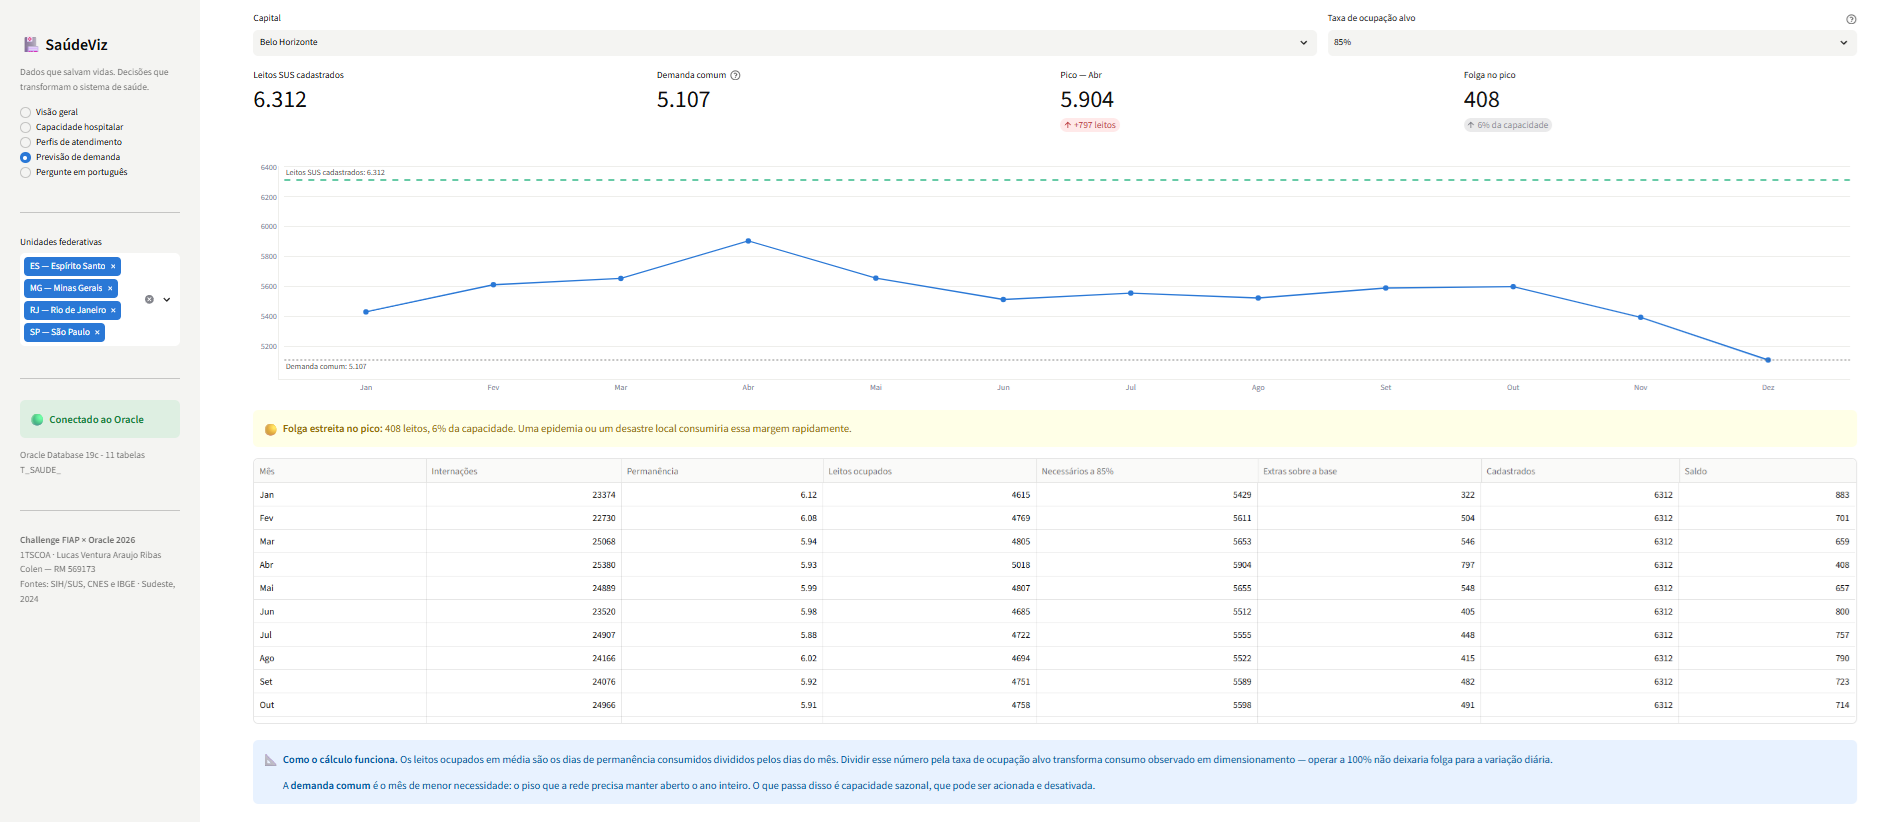
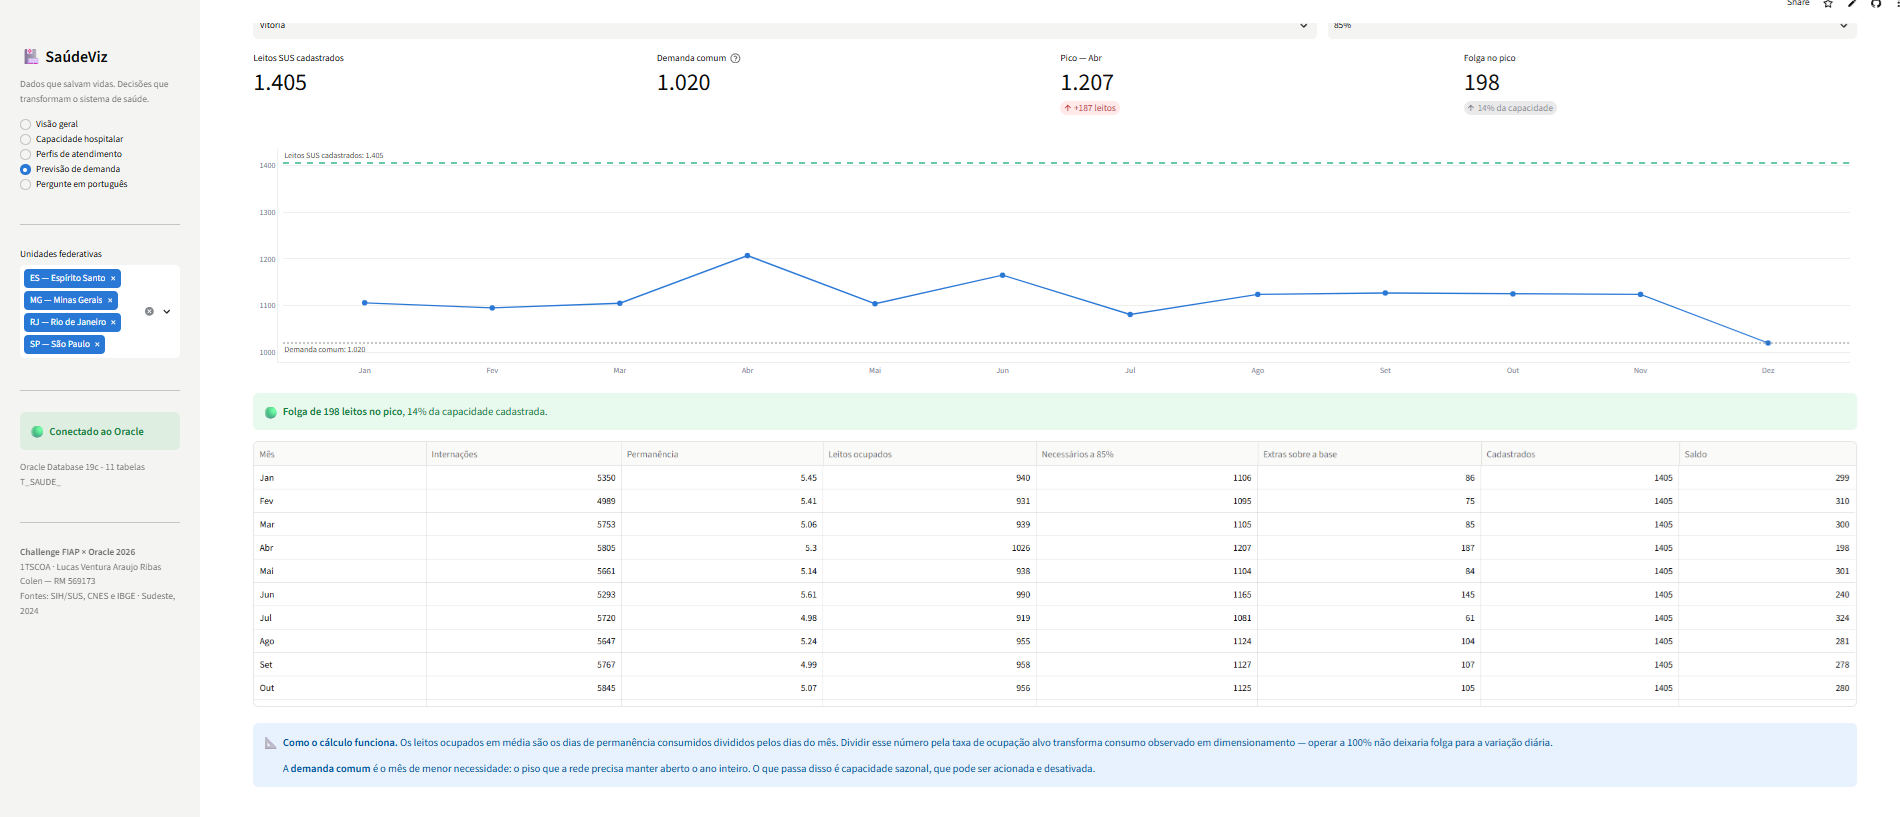
Guarda o dimensionamento nas duas capitais
Vitoria em verde (14% de folga) e Belo Horizonte em alerta (6%). A mesma
tela com dois veredictos opostos mostra que o painel avalia, nao so
desenha.

diff --git a/docs/checklist_evidencias.md b/docs/checklist_evidencias.md
@@ -143,7 +143,8 @@ importantes do PPT.
 | 29 | `painel_04_perfis_pressao.png` | Perfis de atendimento | ⭐ Gráfico de pressão relativa | ✅ |
 | 30 | `painel_05_previsao_serie.png` | Previsão de demanda | Série com intervalo de confiança | ✅ |
 | 31 | `painel_06_previsao_modelos.png` | Previsão, rolado | Comparativo de modelos + efeito do dia da semana | ✅ |
-| 32 | `painel_07_dimensionamento.png` | Previsão, fim da página | ⭐ Curva de leitos necessários mês a mês + os 4 cartões | ✅ |
+| 32 | `painel_07_dimensionamento.png` | Previsão, fim da página | ⭐ Vitória — folga de 198 leitos (14%), mensagem verde | ✅ |
+| 32b | `painel_07b_dimensionamento_bh.png` | Previsão, fim da página | ⭐ Belo Horizonte — folga de 408 leitos (6%), alerta amarelo | ✅ |
 | 33 | `painel_08_nlsql_exemplos.png` | Pergunte em português | Caixa de pergunta + os 8 exemplos | ✅ |
 | 34 | `painel_09_nlsql_intencao.png` | Pergunte — "quais hospitais mais transferem pacientes?" | ⭐ Intenção 80% + SQL sobre `T_SAUDE_RANK_HOSPITAIS` + resultado | ✅ |
 | 35 | `painel_10_nlsql_sql.png` | Pergunte — "onde a capacidade está sendo ultrapassada?" | ⭐ Intenção 75% + SQL sobre `T_SAUDE_IND_CAPACIDADE_MUNICIPAL` + "10 linhas retornadas do Oracle Database" | ✅ |
@@ -153,9 +154,10 @@ Os prints 34 e 35 são **duas perguntas diferentes**, cada uma completa da
 pergunta ao resultado. Provam que o tradutor escolhe a tabela pela intenção —
 mais forte do que fatiar uma única consulta em três imagens.
 
-**No print 32** (`painel_07_dimensionamento`), selecione **Belo Horizonte**: é a capital com a menor folga no
-pico (408 leitos, 6% da capacidade) e a única em que o painel dispara o alerta
-amarelo. Serve melhor à narrativa do que uma capital folgada.
+**Os prints 32 e 32b são a mesma tela em duas capitais**, e é assim que vale
+usar no slide: Vitória com 14% de folga e mensagem verde, Belo Horizonte com 6%
+e alerta amarelo. A mesma ferramenta, dois veredictos opostos — mostra que o
+painel avalia, não só desenha.
 
 **Dica:** capture com a barra lateral visível. Ela mostra o nome do projeto, seu
 RM e o modo de conexão — contexto de graça em cada print.

diff --git a/docs/estrutura_ppt.md b/docs/estrutura_ppt.md
@@ -217,16 +217,19 @@ parada, não menos doentes.
 🖼 `painel_05_previsao_serie.png`
 
 ### Slide 23b — Quantos leitos, e quando abrir
-🖼 `painel_07_dimensionamento.png`
+🖼 `painel_07b_dimensionamento_bh.png` · `painel_07_dimensionamento.png`
 ```
-Belo Horizonte  ·  6.312 leitos cadastrados
+                    Cadastrados   Demanda comum   Pico (abr)   Folga no pico
 
-Demanda comum      5.107 leitos abertos o ano inteiro
-Pico (abril)       5.904  →  +797 leitos sazonais
-Folga no pico        408  →  6% da capacidade
+Belo Horizonte            6.312           5.107        5.904     408   (6%)
+Vitória                   1.405           1.020        1.207     198  (14%)
 ```
 A curva mensal diz ao gestor **quando** acionar capacidade extra e **qual é o
 piso** que não pode ser desmobilizado. Abril é o pico nas quatro capitais.
+
+A mesma tela dá dois veredictos opostos: Vitória em verde, Belo Horizonte em
+alerta. Seis por cento de folga no pico é a margem que uma epidemia consome
+em dias.
 
 ### Slide 24 — Consultas na camada Gold
 🖼 `oracle_top10_hospitais.png`
